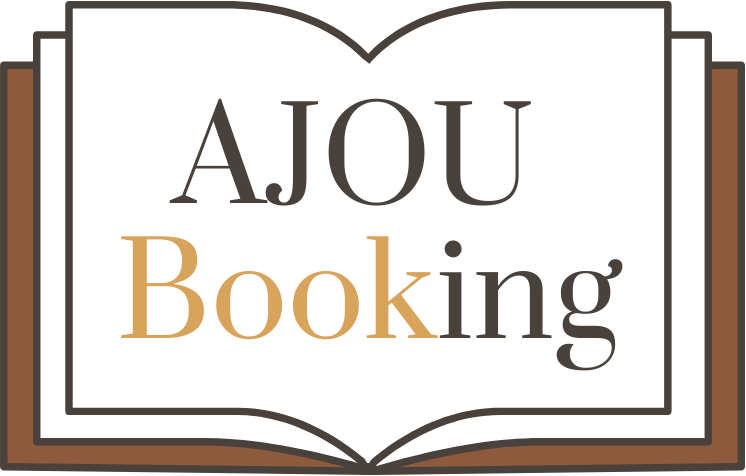
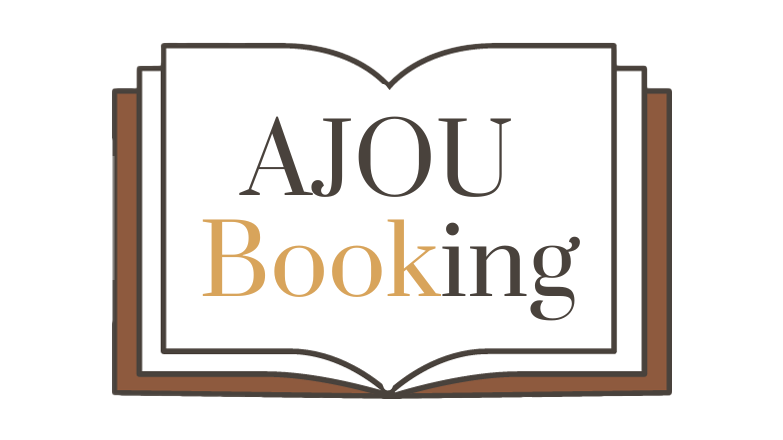
11.30_v2

diff --git a/front-end/src/Map.js b/front-end/src/Map.js
@@ -1,10 +1,65 @@
-import React from 'react';
+import React, { useEffect } from 'react';
+import $ from 'jquery';
+import 'magnific-popup/dist/magnific-popup.css'; // Magnific Popup의 CSS 파일을 추가
+import './Map.css';
 
-const Map = () => {
+const Map = ({ mapData }) => {
+  useEffect(() => {
+    const $ = window.jQuery;
+
+    if ($) {
+      // Magnific Popup 초기화
+      $('.popup-link').magnificPopup({
+        type: 'image',
+        gallery: {
+          enabled: true,
+        },
+        // 추가: 팝업에 Close 버튼 추가
+        closeBtnInside: false,
+        // 추가: 팝업 이미지 화면 중앙에 고정
+        mainClass: 'mfp-fade mfp-align-center-horizontally mfp-align-center-vertically',
+        // 추가: 팝업 이미지가 나올 때 팝업 이미지를 제외한 뒷배경을 어둡게
+        closeOnBgClick: false,
+        closeOnContentClick: false,
+        closeOnEsc: false,
+        fixedContentPos: false,
+        overflowY: 'auto',
+        scrollOutside: false,
+        zoom: {
+          enabled: true,
+          easing: 'ease-in-out',
+          duration: 250,
+        },
+        callbacks: {
+          beforeOpen: () => {
+            // 팝업 이미지를 제외한 뒷배경을 어둡게
+            $('body').css('background-color', 'rgba(0, 0, 0, 0.5)');
+          },
+          afterClose: () => {
+            // 뒷배경을 원래대로
+            $('body').css('background-color', 'white');
+          },
+        },
+      });
+    } else {
+      console.error('jQuery is not available.');
+    }
+  }, []);
+
   return (
     <div>
+      <p>찾으시는 책의 위치는 지도에 표시되어 있습니다. </p>
       {/* 여기에 이미지 파일 경로와 alt 텍스트를 넣어주세요 */}
-      <img src="/4fmap.png" alt="Map" />
+      <a href="/map.png" className="popup-link">
+        <img id="book-map" src="/map.png" alt="Map" />
+      </a>
+      {mapData && (
+        <div>
+          <p>책 분야 : "{mapData.category}"</p>
+          <p>책장 번호 : "{mapData.bookshelfNum}"</p>
+          <p>칼럼 번호 : "{mapData.columnNum}"</p>
+        </div>
+      )}
     </div>
   );
 };

diff --git a/front-end/src/App.js b/front-end/src/App.js
@@ -1,4 +1,3 @@
-// App.js
 import React, { useState } from 'react';
 import './App.css'; // 스타일 파일 추가
 import Map from './Map'; // Map 컴포넌트 추가
@@ -6,7 +5,7 @@ import Map from './Map'; // Map 컴포넌트 추가
 function App() {
   const [data, setData] = useState('');
   const [result, setResult] = useState(null);
-  const [showMap, setShowMap] = useState(false);  // Map 컴포넌트 노출 유무
+  const [mapData, setMapData] = useState(null);  // Map 컴포넌트 데이터 전달
 
   const handleSubmit = async (e) => {
     e.preventDefault();
@@ -19,9 +18,7 @@ function App() {
 
     try {
       // 수정된 부분: GET 메소드 사용, 데이터는 URL에 쿼리 매개변수로 전달
-
-      const response = await fetch(`http://localhost:8080?callNumber=${encodeURIComponent(data)}`, {
-
+      const response = await fetch(`http://3.142.20.149:8080?callNumber=${encodeURIComponent(data)}`, {
         method: 'GET',
         headers: {
           'Content-Type': 'application/json',
@@ -34,10 +31,13 @@ function App() {
 
       const resultData = await response.json();
       setResult(resultData);
-      setShowMap(true); // Map 컴포넌트를 표시
-    
-      // 수정된 부분: form-container의 style.display 속성을 none으로 설정하여 숨김
+
+      // 수정된 부분: Map 컴포넌트에 result 데이터 전달
+      setMapData(resultData);
+      
+      // 수정된 부분: form-container의 style.display 속성을 none으로 설정 복사 문제 해결
       document.querySelector('.form-container').style.display = 'none';
+    
     } catch (error) {
       console.error('Error:', error);
     }
@@ -70,11 +70,7 @@ function App() {
         <div>
           {/* 결과 출력 */}
           {result && (
-            <div>
-              <p>"category" : "{result.category}"</p>
-              <p>"bookshelfNum" : "{result.bookshelfNum}"</p>
-              <p>"columnNum" : "{result.columnNum}"</p>
-            </div>
+            <Map mapData={result} />
           )}
         </div>
       </div>
@@ -83,3 +79,4 @@ function App() {
 }
 
 export default App;
+

diff --git a/front-end/public/index.html b/front-end/public/index.html
@@ -6,6 +6,12 @@
     <meta name="viewport" content="width=device-width, initial-scale=1, shrink-to-fit=no">
     <title>AJOU Booking</title>
     <link rel="stylesheet" href="/src/index.css"> 
+    <link rel="stylesheet" href="https://cdnjs.cloudflare.com/ajax/libs/magnific-popup.js/1.1.0/magnific-popup.min.css" integrity="sha512-1dheFhBD2aLCW7hEAxqnftF1VekcKI7UJLOh74+olL7f3YI6uHgqDqYRFItvIwE0n4/3iS8i+Vqcoj5g+Ff8CQ==" crossorigin="anonymous" />
+    <script src="https://code.jquery.com/jquery-3.6.4.min.js"></script>
+    <script src="https://cdnjs.cloudflare.com/ajax/libs/magnific-popup.js/1.1.0/jquery.magnific-popup.min.js"></script>    
+    <script src="https://cdnjs.cloudflare.com/ajax/libs/jquery/3.6.0/jquery.min.js" integrity="sha512-cJ1uUwN3KCrQ/zn2mpWfZajb6fJg9Vi+/+TuxH2Tn7p72z8OlRL9aXfnAwPVOzPpLVVvMWvQtMGa0wCj3z1DUQ==" crossorigin="anonymous"></script>
+    <script src="https://cdnjs.cloudflare.com/ajax/libs/magnific-popup.js/1.1.0/jquery.magnific-popup.min.js" integrity="sha512-qWP/4DyBgQdrbDWBb1zjAx7+Rc3uAYa5HT9CwVZ2C6gj10kRlYsA4ZWm6eOsl2yF8XTqPlHOIgO5DDCT7ZDzlw==" crossorigin="anonymous"></script>
+    
     <link href="https://cdn.jsdelivr.net/npm/bootstrap@5.1.3/dist/css/bootstrap.min.css" rel="stylesheet" integrity="sha384-1BmE4kWBq78iYhFldvKuhfTAU6auU8tT94WrHftjDbrCEXSU1oBoqyl2QvZ6jIW3" crossorigin="anonymous">
 </head>
 <body>

diff --git a/front-end/src/App.css b/front-end/src/App.css
@@ -36,7 +36,7 @@ img {
     align-items: center;
     flex-direction: column;
     margin-bottom: 3vw;
-  }
+  }  
 
 .search-form {
     max-width: 800px;
@@ -44,7 +44,7 @@ img {
   }
   
   #logo-icon {
-    max-width: 40%;
+    max-width: 60%;
     width: 100%;
     height: auto;
     margin-bottom: 2vw;

diff --git a/front-end/src/Map.css b/front-end/src/Map.css
@@ -1,0 +1,7 @@
+#book-map {
+    max-width: 100%;
+    width: 100%;
+    height: auto;
+    margin-bottom: 2vw;
+  }
+
